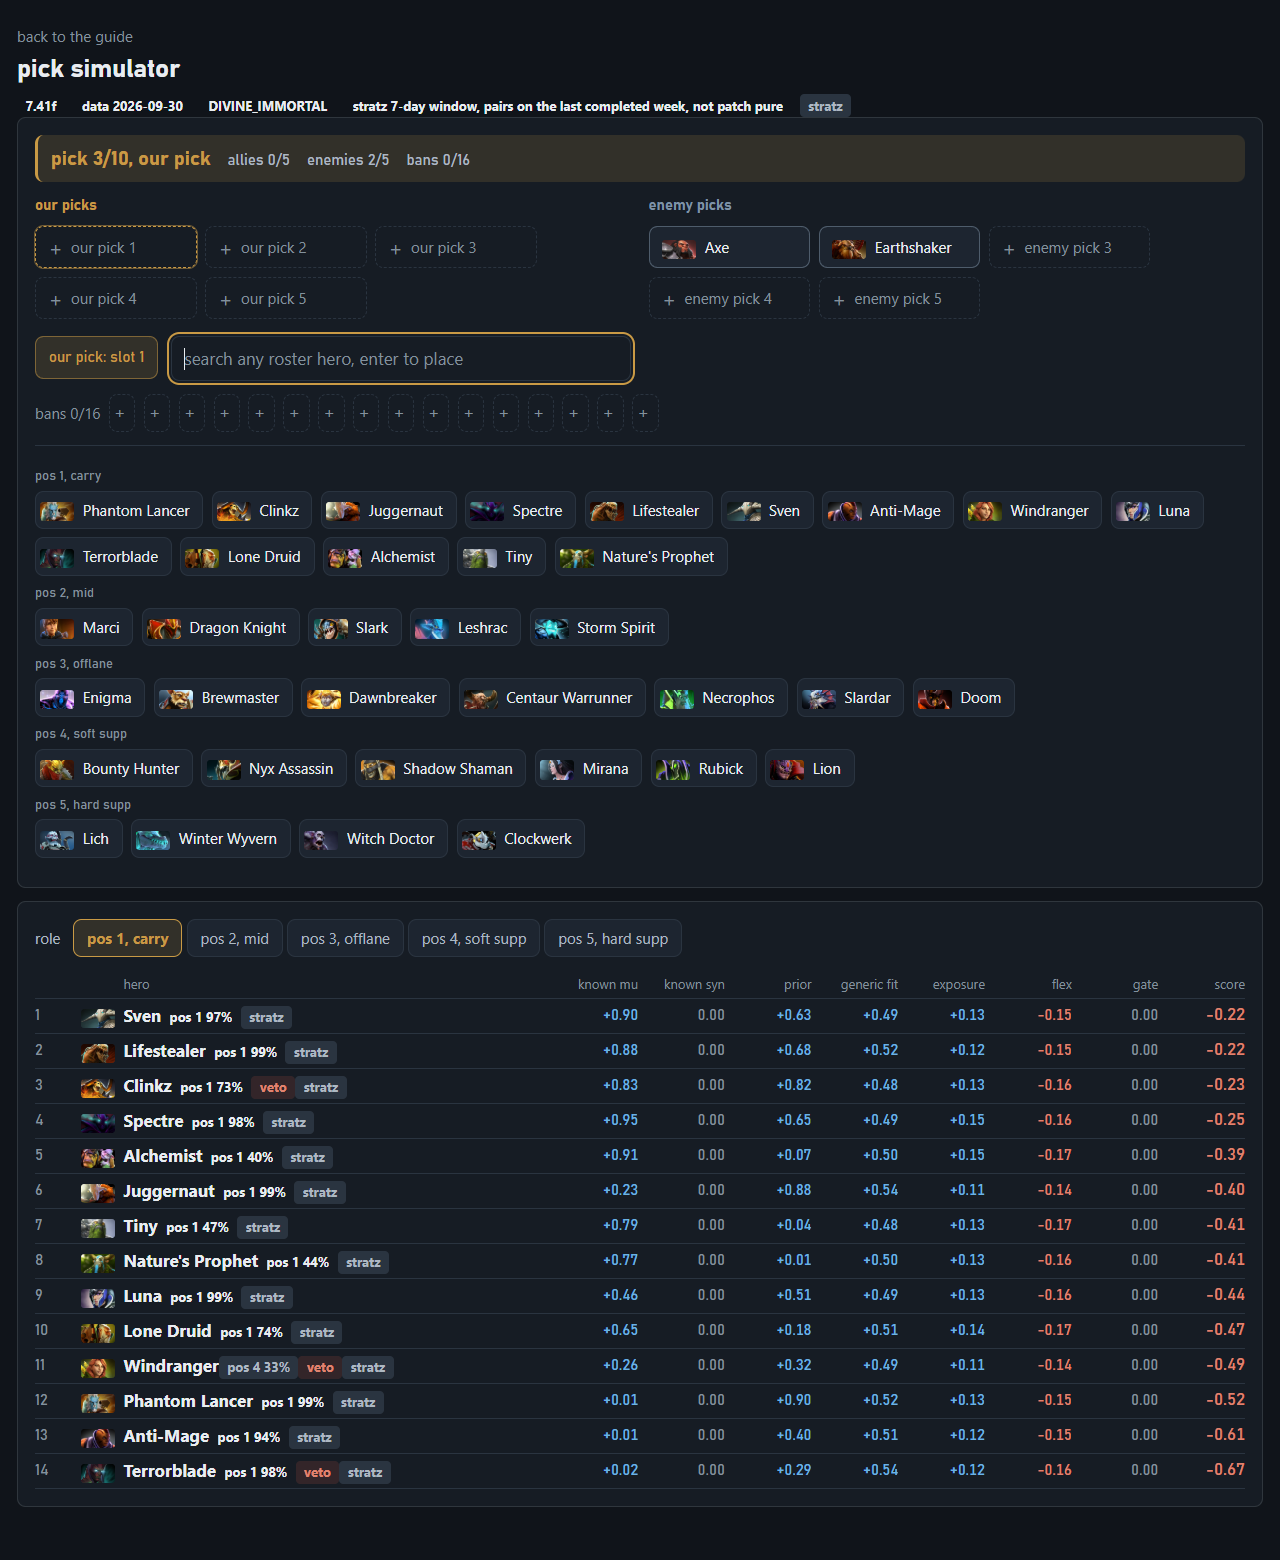
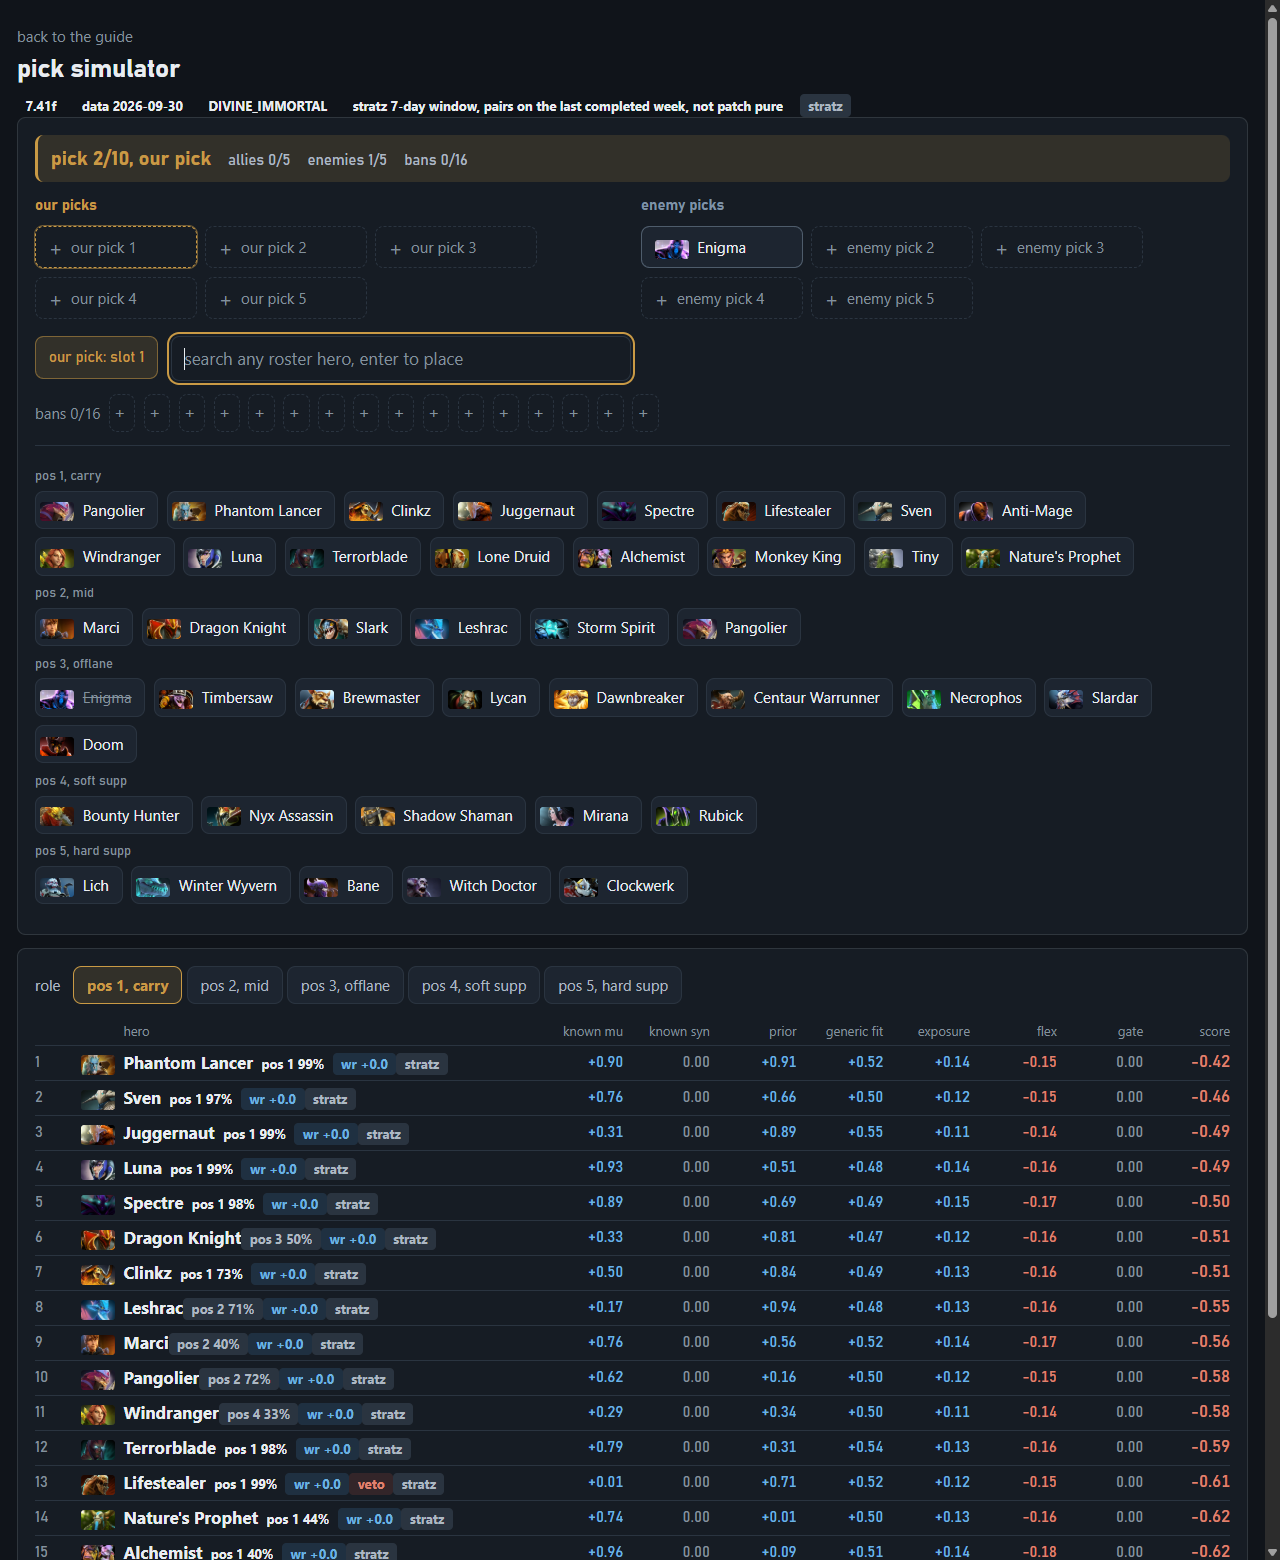
docs(readme): retake the screenshots for the v0.3 lineup
picker shot shows the shared pos 1 and pos 2 core field mid draft
against a visible enigma, with the lifestealer veto tag fired and
pangolier seated in the carry ranking. guide shot shows the monkey
king panel. alt texts updated to match.

diff --git a/readme.md b/readme.md
@@ -5,9 +5,9 @@
 
 offline dota 2 pick simulator and hero-pool guide for patch 7.41f. static pages with zero runtime deps, an offline go engine over duckdb, and one authored config hub. the picker is the main tool, the guide supplements it.
 
-![the picker ranking pos 1 heroes mid draft, clinkz vetoed against the axe and earthshaker lockdown](docs/picker.png)
+![the picker ranking the shared pos 1 and pos 2 core field against a visible enigma, lifestealer vetoed, pangolier seated in the carry ranking](docs/picker.png)
 
-![the guide hero panel for clinkz, build, timings, tech, mechanics, and matchup tables](docs/guide.png)
+![the guide hero panel for monkey king, build, timings, tech, mechanics, and matchup tables](docs/guide.png)
 
 ## tools
 
